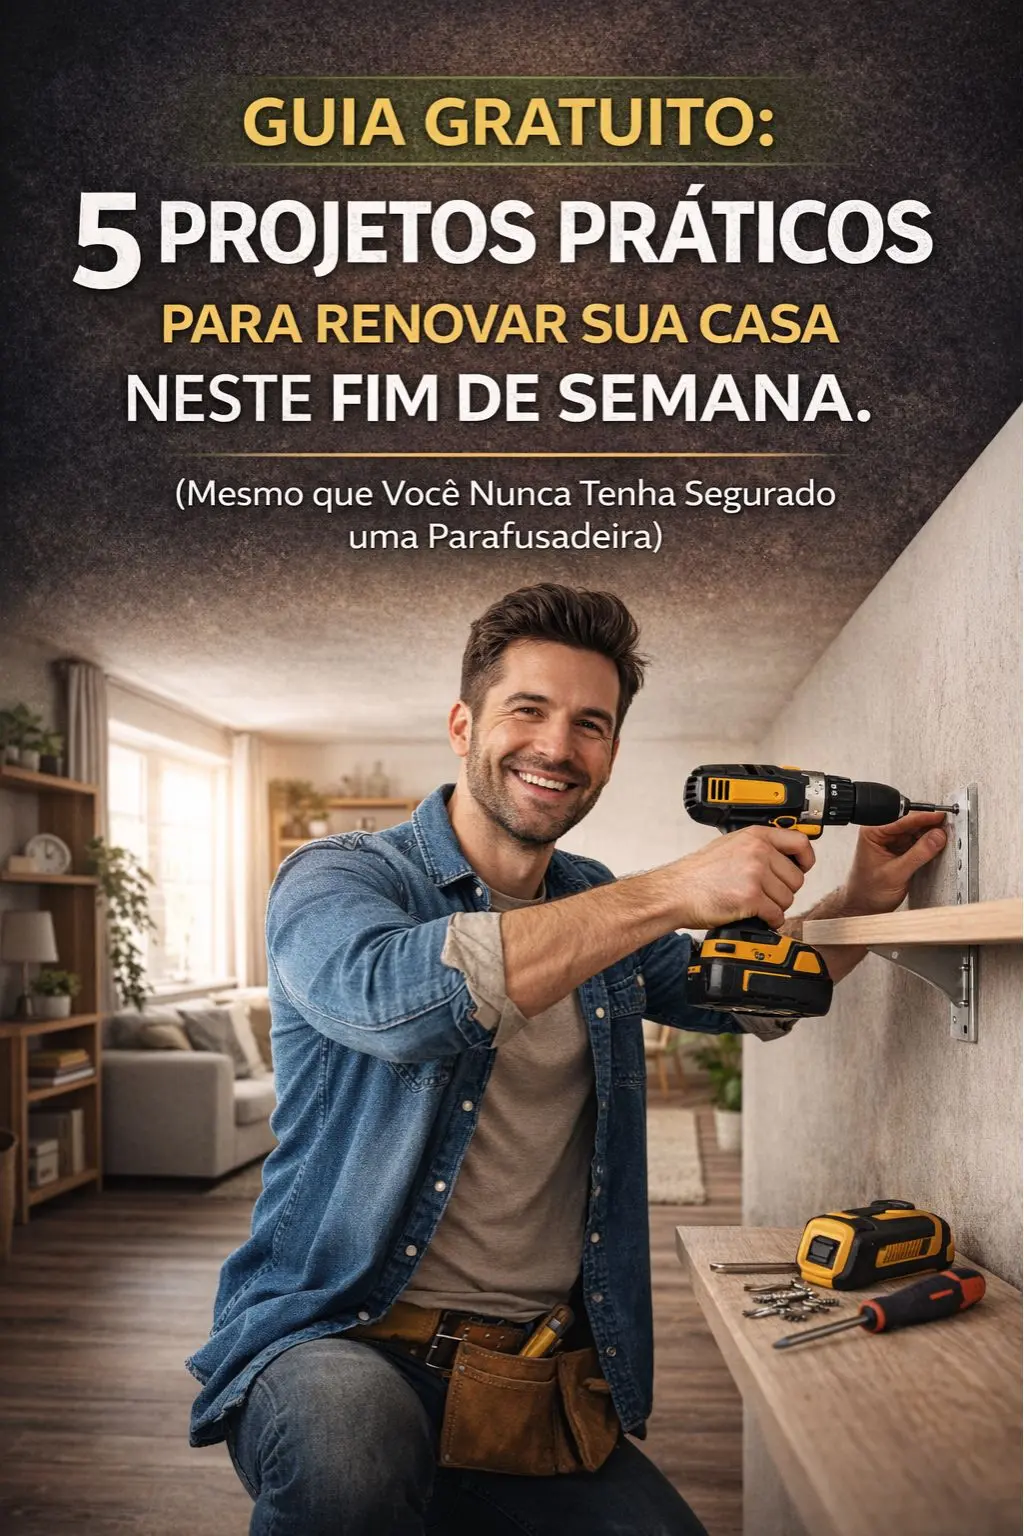
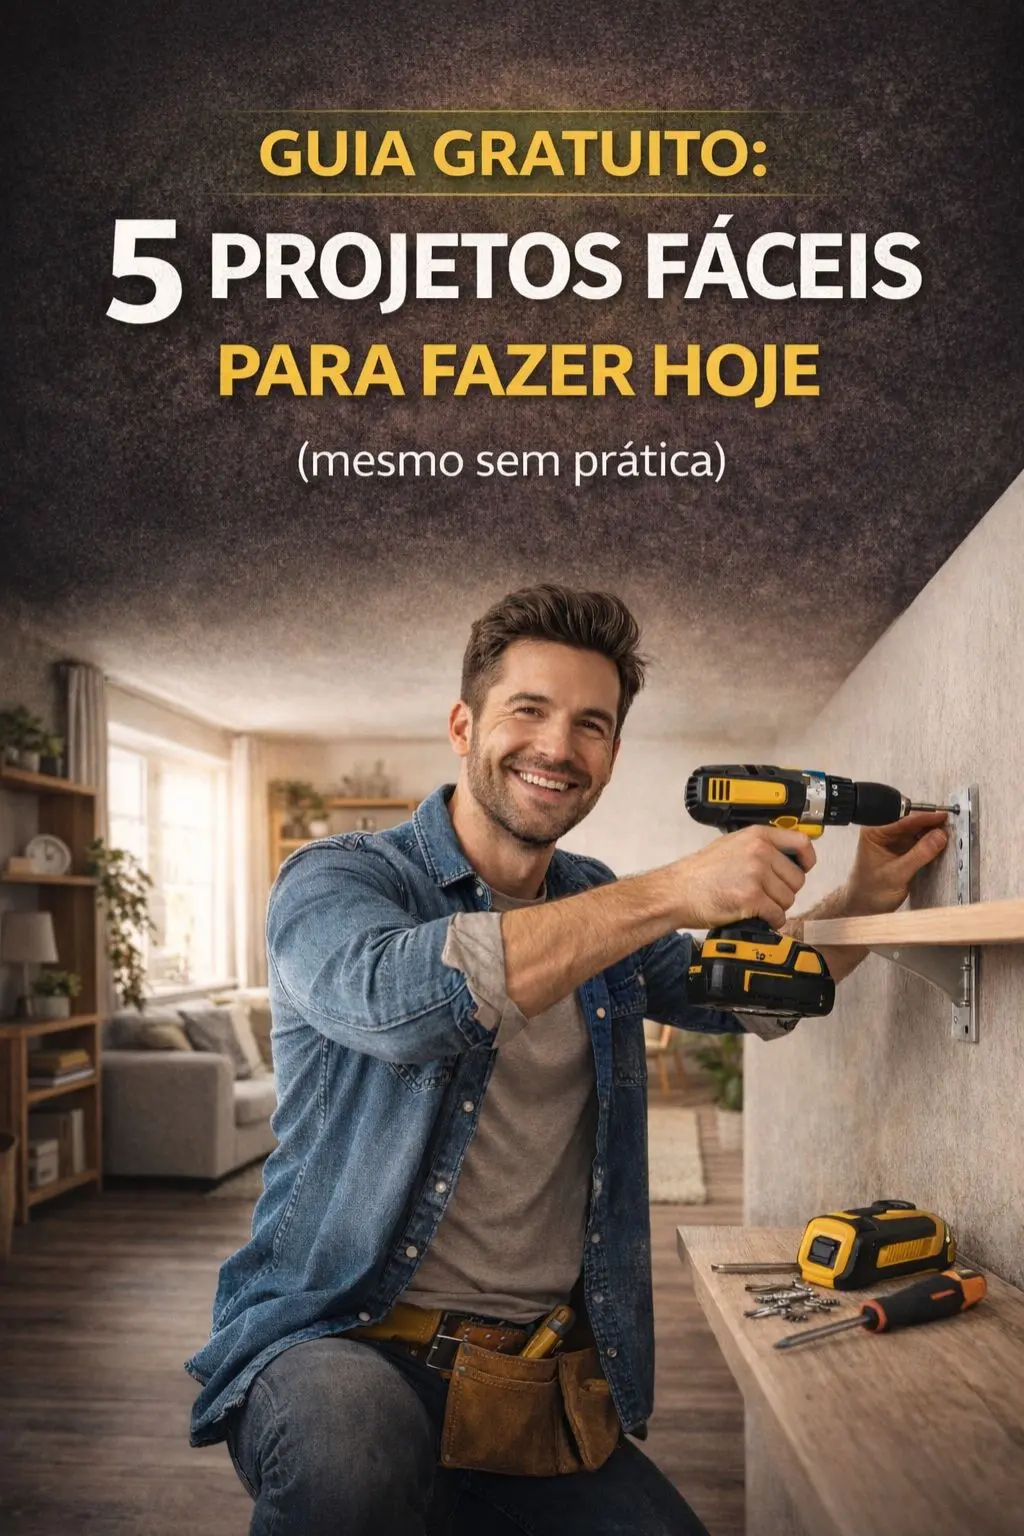
feat: implement behavioral lead capture, upgrade astro, and add smartlook

diff --git a/src/components/ExitIntentPopup.tsx b/src/components/ExitIntentPopup.tsx
@@ -4,6 +4,7 @@ import { X } from 'lucide-react';
 export const ExitIntentPopup: React.FC = () => {
   const [isVisible, setIsVisible] = useState(false);
   const [bannerType, setBannerType] = useState<'discreet' | 'big'>('discreet');
+  const [showCloseButton, setShowCloseButton] = useState(false);
   const [email, setEmail] = useState('');
   const [status, setStatus] = useState<'idle' | 'submitting' | 'success'>('idle');
 
@@ -11,52 +12,61 @@ export const ExitIntentPopup: React.FC = () => {
   const isValidEmail = emailRegex.test(email);
 
   useEffect(() => {
-    if (sessionStorage.getItem('closedAll')) return;
+    // Se já fechou tudo ou já se inscreveu nesta sessão, não faz nada
+    if (sessionStorage.getItem('closedAll') || sessionStorage.getItem('emailSubmitted')) return;
 
     if (!sessionStorage.getItem('siteEntryTime')) {
       sessionStorage.setItem('siteEntryTime', String(Date.now()));
     }
 
     const entryTime = Number(sessionStorage.getItem('siteEntryTime'));
-    const elapsed = Date.now() - entryTime;
-    const TARGET_MS = 37000;
-    const remaining = Math.max(TARGET_MS - elapsed, 0);
 
     const triggerDiscreet = () => {
-      if (!sessionStorage.getItem('closedAll') && !sessionStorage.getItem('bigBannerShown')) {
+      if (!sessionStorage.getItem('closedAll') && !sessionStorage.getItem('emailSubmitted') && !sessionStorage.getItem('bigBannerShown')) {
+        setBannerType('discreet');
         setIsVisible(true);
       }
     };
 
-    const triggerBig = () => {
-      if (!sessionStorage.getItem('closedAll') && !sessionStorage.getItem('bigBannerShown')) {
-        setIsVisible(true);
-        setBannerType('big');
-        sessionStorage.setItem('bigBannerShown', 'true');
-      }
-    };
-
-    // --- DESKTOP: Mouse Sai ---
     const handleExitIntent = (e: MouseEvent) => {
-      if (e.clientY <= 0) triggerBig();
+      const elapsed = Date.now() - entryTime;
+      // Triga apenas se passou 40s no site (PC EXIT INTENT)
+      if (e.clientY <= 0 && elapsed >= 40000) {
+        if (!sessionStorage.getItem('closedAll') && !sessionStorage.getItem('emailSubmitted') && !sessionStorage.getItem('bigBannerShown')) {
+          setBannerType('big');
+          setIsVisible(true);
+          sessionStorage.setItem('bigBannerShown', 'true');
+        }
+      }
     };
 
-    // --- MOBILE SCROLL INTENT ---
     let lastScrollY = window.scrollY;
     let lastScrollTime = Date.now();
     const handleScroll = () => {
       const currentScrollY = window.scrollY;
       const currentTime = Date.now();
-      const distance = lastScrollY - currentScrollY; // positive means scrolling UP
+      const distance = lastScrollY - currentScrollY; // positivo se rolar para CIMA
       const timeDiff = currentTime - lastScrollTime;
+      const elapsed = Date.now() - entryTime;
       
-      if (distance > 50 && timeDiff > 0 && timeDiff < 100) triggerBig();
+      // Triga se rolar rápido para cima após 60s no site
+      if (distance > 50 && timeDiff > 0 && timeDiff < 100 && elapsed >= 60000) {
+        if (!sessionStorage.getItem('closedAll') && !sessionStorage.getItem('emailSubmitted') && !sessionStorage.getItem('bigBannerShown')) {
+          setBannerType('big');
+          setIsVisible(true);
+          sessionStorage.setItem('bigBannerShown', 'true');
+        }
+      }
       
       lastScrollY = currentScrollY;
       lastScrollTime = currentTime;
     };
 
-    const timer = setTimeout(triggerDiscreet, remaining);
+    const elapsed = Date.now() - entryTime;
+    const DISCREET_MS = 30000;
+    const remainingDiscreet = Math.max(DISCREET_MS - elapsed, 0);
+
+    const discreetTimer = setTimeout(triggerDiscreet, remainingDiscreet);
 
     document.addEventListener('mouseleave', handleExitIntent);
     window.addEventListener('scroll', handleScroll, { passive: true });
@@ -64,19 +74,26 @@ export const ExitIntentPopup: React.FC = () => {
     return () => {
       document.removeEventListener('mouseleave', handleExitIntent);
       window.removeEventListener('scroll', handleScroll);
-      clearTimeout(timer);
+      clearTimeout(discreetTimer);
     };
   }, []);
 
-  const handleCloseAll = (e?: React.MouseEvent) => {
+  // Delay para aparecer o botão de fechar (X) e o link "Não obrigado"
+  // Reseta o timer sempre que a visibilidade ou o tipo de banner muda
+  useEffect(() => {
+    if (isVisible) {
+      setShowCloseButton(false);
+      const timer = setTimeout(() => setShowCloseButton(true), 5000);
+      return () => {
+        clearTimeout(timer);
+      };
+    }
+  }, [isVisible, bannerType]);
+
+  const handleClose = (e?: React.MouseEvent) => {
     if (e) e.stopPropagation();
     setIsVisible(false);
     sessionStorage.setItem('closedAll', 'true');
-  };
-
-  const handleDiscreetClick = () => {
-    setBannerType('big');
-    sessionStorage.setItem('bigBannerShown', 'true');
   };
 
   const handleSubmit = async (e: React.FormEvent) => {
@@ -90,7 +107,8 @@ export const ExitIntentPopup: React.FC = () => {
         body: JSON.stringify({ email }),
       });
       if (res.ok) {
-        setStatus('success');
+        sessionStorage.setItem('emailSubmitted', 'true');
+        window.location.href = '/obrigado';
       } else {
         setStatus('idle');
         alert('Erro ao registrar. Tente novamente.');
@@ -105,80 +123,110 @@ export const ExitIntentPopup: React.FC = () => {
 
   if (bannerType === 'discreet') {
     return (
-      <div 
-        onClick={handleDiscreetClick}
-        className="fixed bottom-0 left-0 right-0 z-[100] bg-[#1a1a1a] text-white p-4 shadow-[0_-4px_25px_rgba(0,0,0,0.6)] animate-in slide-in-from-bottom duration-500 border-t border-gray-800 cursor-pointer pb-6 md:pb-4 hover:bg-gray-900 transition-colors"
-      >
-        <div className="max-w-4xl mx-auto flex flex-col md:flex-row items-center justify-between gap-4 px-2 md:px-0">
-          <div className="flex-1 text-center md:text-left text-sm md:text-base font-medium pointer-events-none">
-            🎁 <strong className="text-[#FFD700]">Presente Rápido:</strong> Baixe 5 projetos práticos para transformar sua casa hoje.
-          </div>
-          <button
-            className="w-full sm:w-auto bg-[#FFD700] hover:bg-[#ffcd38] text-black font-bold py-2 px-6 rounded text-sm transition-colors whitespace-nowrap pointer-events-none"
-          >
-            VER AGORA
-          </button>
-        </div>
-      </div>
-    );
-  }
+      <div className="fixed bottom-0 left-0 right-0 z-[100] bg-[#1a1a1a] text-white p-4 shadow-[0_-4px_25px_rgba(0,0,0,0.6)] animate-in slide-in-from-bottom duration-500 border-t border-gray-800 pb-6 md:pb-4">
+        <div className="max-w-5xl mx-auto relative px-2">
+          {showCloseButton && (
+            <button 
+              onClick={handleClose}
+              className="absolute -top-1 -right-2 md:top-0 md:right-0 p-1 bg-gray-800 hover:bg-gray-700 rounded-full transition-colors text-gray-400 hover:text-white"
+              aria-label="Fechar"
+            >
+              <X size={16} />
+            </button>
+          )}
 
-  // BIG BANNER
-  return (
-    <div className="fixed inset-0 z-[150] flex flex-col justify-center items-center bg-black/80 px-4 animate-in fade-in duration-300">
-      <div className="relative bg-[#1a1a1a] p-5 md:p-6 rounded-xl max-w-sm md:max-w-md w-full shadow-2xl border border-gray-700 max-h-[90vh] overflow-y-auto">
-        <button 
-          onClick={handleCloseAll}
-          className="absolute top-2 right-2 text-gray-400 hover:text-white transition-colors bg-gray-800 hover:bg-gray-700 rounded-full p-1"
-          aria-label="Fechar"
-        >
-          <X size={18} strokeWidth={2} />
-        </button>
-
-        {status === 'success' ? (
-          <div className="flex flex-col items-center justify-center py-6">
-            <div className="w-14 h-14 bg-green-500 rounded-full flex items-center justify-center mb-4">
-              <svg className="w-6 h-6 text-white" fill="none" stroke="currentColor" viewBox="0 0 24 24">
-                <path strokeLinecap="round" strokeLinejoin="round" strokeWidth={3} d="M5 13l4 4L19 7" />
-              </svg>
-            </div>
-            <h3 className="font-bold text-xl text-green-400 mb-2 text-center">Guia a caminho! 🚀</h3>
-            <p className="text-gray-300 text-center text-base">
-              <strong className="text-[#FFD700]">⚠ SPAM:</strong> Se não chegar em 1 minuto, olhe no SPAM!
+          <div className="flex flex-col lg:flex-row items-center justify-center gap-4 text-center lg:text-left">
+            <p className="font-medium text-sm md:text-base">
+              🛠 <strong className="text-[#FFD700]">Guia Maker Grátis:</strong> 5 projetos para renovar sua casa.
             </p>
-          </div>
-        ) : (
-          <div className="flex flex-col items-center">
-            <h2 className="text-[#FFD700] font-black text-xl md:text-2xl text-center leading-tight mb-2 md:mb-3 uppercase">
-              ESPERA!!!<br/>Não vá embora sem o seu presente...
-            </h2>
             
-            <img 
-              src="/images/melhorebook.webp" 
-              alt="Capa Ebook Projetos Práticos para Renovar sua Casa" 
-              className="w-full max-w-[240px] md:max-w-[280px] h-auto object-contain mb-4 drop-shadow-[0_0_15px_rgba(255,215,0,0.2)]"
-            />
-
-            <form onSubmit={handleSubmit} className="w-full flex flex-col gap-2">
+            <form onSubmit={handleSubmit} className="flex flex-col sm:flex-row gap-2 w-full max-w-md">
               <input
                 type="email"
                 value={email}
                 onChange={(e) => setEmail(e.target.value)}
-                placeholder="Digite seu melhor e-mail aqui..."
-                className="w-full px-3 py-2 bg-white text-gray-900 placeholder-gray-500 rounded-lg focus:outline-none focus:ring-4 focus:ring-[#FFD700]/50 text-sm shadow-inner text-center font-medium"
+                placeholder="Seu e-mail aqui..."
+                className="flex-grow px-3 py-2 bg-white text-gray-900 rounded-lg text-sm focus:outline-none focus:ring-2 focus:ring-[#FFD700]"
                 required
               />
               <button
                 type="submit"
                 disabled={status === 'submitting' || !isValidEmail}
-                className="w-full bg-[#FFD700] hover:bg-[#ffcd38] text-black font-black py-3 px-4 rounded-lg text-base transition-transform hover:scale-105 active:scale-95 whitespace-nowrap disabled:opacity-50 mt-1 uppercase shadow-lg shadow-[#FFD700]/20"
+                className="bg-[#FFD700] hover:bg-[#ffcd38] text-black font-black py-2 px-6 rounded-lg text-sm transition-transform active:scale-95 disabled:opacity-50 whitespace-nowrap"
               >
-                {status === 'submitting' ? 'Aguarde...' : 'QUERO OS 5 PROJETOS GRÁTIS'}
+                {status === 'submitting' ? '...' : 'BAIXAR AGORA'}
               </button>
             </form>
           </div>
+        </div>
+      </div>
+    );
+  }
+
+  // BIG BANNER (EXIT / SCROLL INTENT)
+  return (
+    <div className="fixed inset-0 z-[150] flex flex-col justify-center items-center bg-white/90 px-3 animate-in fade-in duration-300 backdrop-blur-sm">
+      <div className="relative bg-[#1a1a1a] p-5 md:p-6 rounded-3xl max-w-sm md:max-w-md w-full shadow-[0_20px_50px_rgba(0,0,0,0.3)] border border-gray-700">
+        {showCloseButton && (
+          <button 
+            onClick={handleClose}
+            className="absolute top-2 right-2 text-gray-400 hover:text-white transition-colors bg-gray-800/80 hover:bg-gray-700 rounded-full p-2 border border-gray-700 shadow-lg z-10"
+            aria-label="Fechar"
+          >
+            <X size={18} strokeWidth={3} />
+          </button>
         )}
+
+        <div className="flex flex-col items-center">
+          <h2 className="text-[#FFD700] font-black text-xl md:text-2xl text-center leading-tight mb-3 uppercase tracking-tighter">
+            Espere! <span className="text-white block text-lg md:text-xl font-bold mt-1">Leve seu Guia antes de ir.</span>
+          </h2>
+          
+          <div className="relative mb-3">
+            <div className="absolute inset-0 bg-[#FFD700]/5 blur-2xl rounded-full"></div>
+            <img 
+              src="/images/melhorebook.webp" 
+              alt="Guia Gratuito" 
+              className="relative w-full max-w-[180px] md:max-w-[220px] h-auto object-contain transform -rotate-1 drop-shadow-[0_15px_20px_rgba(0,0,0,0.6)]"
+            />
+          </div>
+
+          <form onSubmit={handleSubmit} className="w-full flex flex-col gap-2">
+            <input
+              type="email"
+              value={email}
+              onChange={(e) => setEmail(e.target.value)}
+              placeholder="Digite seu e-mail..."
+              className="w-full px-4 py-2 bg-[#242424] text-white border border-gray-700 placeholder-gray-400 rounded-xl focus:outline-none focus:ring-4 focus:ring-[#FFD700]/30 text-sm text-center font-medium"
+              required
+            />
+            <button
+              type="submit"
+              disabled={status === 'submitting'}
+              className="w-full bg-[#FFD700] hover:bg-[#ffcd38] text-black font-black py-3 px-4 rounded-xl text-sm transition-all hover:scale-[1.02] active:scale-95 uppercase shadow-xl shadow-[#FFD700]/10 border-b-4 border-[#ccab00] active:border-b-0"
+            >
+              {status === 'submitting' ? '...' : 'QUERO MEU GUIA'}
+            </button>
+          </form>
+          
+          <button 
+            onClick={handleClose}
+            className={`mt-4 text-xs font-medium uppercase tracking-widest transition-all duration-1000 underline underline-offset-4 ${
+              showCloseButton 
+                ? 'text-white decoration-white opacity-100' 
+                : 'text-gray-400 decoration-gray-600 opacity-40'
+            }`}
+          >
+            Não, obrigado. Quero continuar lendo.
+          </button>
+        </div>
       </div>
     </div>
   );
 };
+
+
+
+
+
+

diff --git a/src/components/BunnerDoMeio.tsx b/src/components/BunnerDoMeio.tsx
@@ -18,7 +18,8 @@ export const BunnerDoMeio: React.FC = () => {
         body: JSON.stringify({ email }),
       });
       if (res.ok) {
-        setStatus('success');
+        sessionStorage.setItem('emailSubmitted', 'true');
+        window.location.href = '/obrigado';
       } else {
         setStatus('idle');
         alert('Erro ao registrar. Tente novamente.');
@@ -66,7 +67,7 @@ export const BunnerDoMeio: React.FC = () => {
           {/* Topo: Texto Curto */}
           <div className="w-full">
             <p className="text-base md:text-lg text-gray-700 font-medium max-w-2xl mx-auto mb-2 leading-relaxed">
-              🎁 <strong className="text-gray-900">Guia Grátis:</strong> 5 Projetos Práticos para renovar sua casa neste fim de semana (mesmo sem ter experiência).
+              🛠 <strong className="text-gray-900">Guia Maker Grátis:</strong> 5 projetos para renovar sua casa (mesmo sem prática).
             </p>
           </div>
 
@@ -85,9 +86,9 @@ export const BunnerDoMeio: React.FC = () => {
               <button
                 type="submit"
                 disabled={status === 'submitting' || !isValidEmail}
-                className="w-full bg-[#FFD700] hover:bg-[#ffcd38] text-black font-bold py-3 px-4 rounded text-base transition-colors disabled:opacity-50 shadow-sm"
+                className="w-full bg-[#FFD700] hover:bg-[#ffcd38] text-black font-black py-4 px-4 rounded text-base transition-colors disabled:opacity-50 shadow-sm"
               >
-                {status === 'submitting' ? 'Preparando guia...' : 'QUERO OS 5 PROJETOS GRÁTIS'}
+                {status === 'submitting' ? 'Aguarde...' : 'BAIXAR AGORA'}
               </button>
             </form>
         </div>
